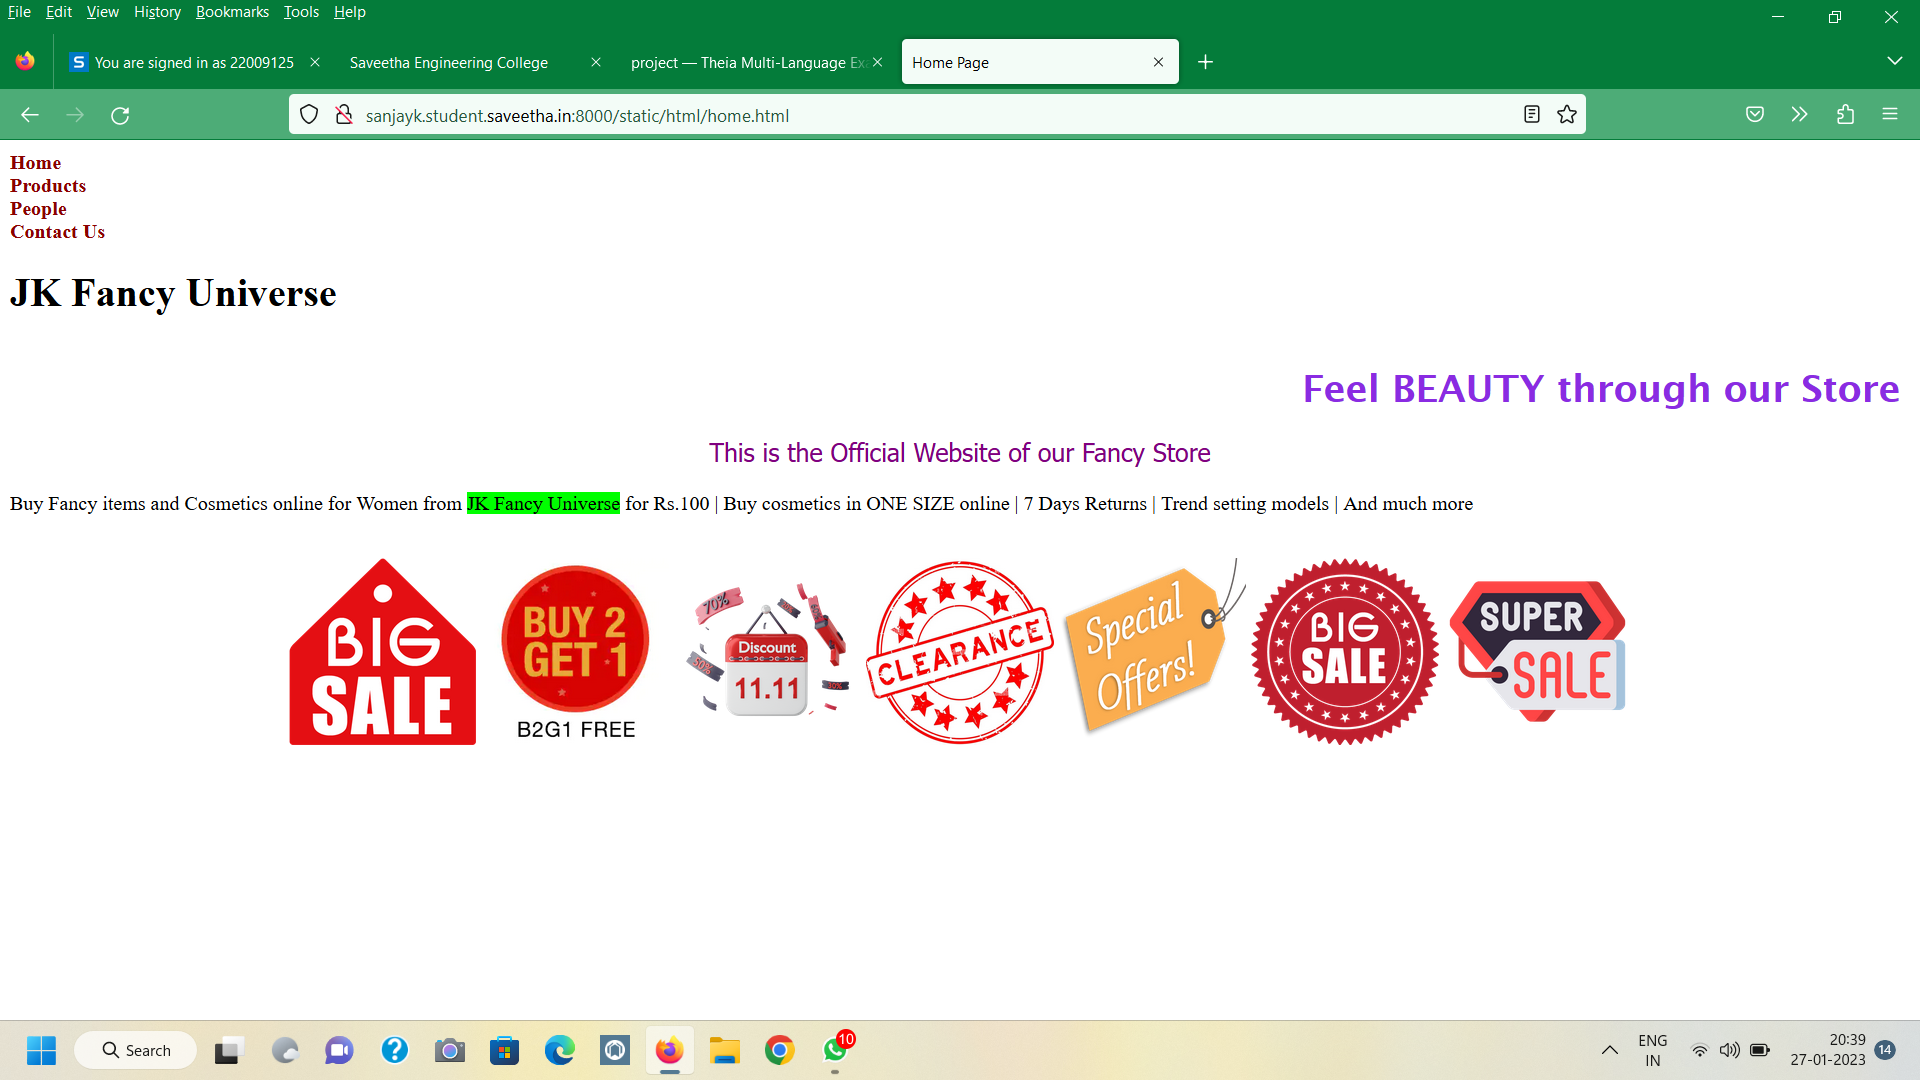
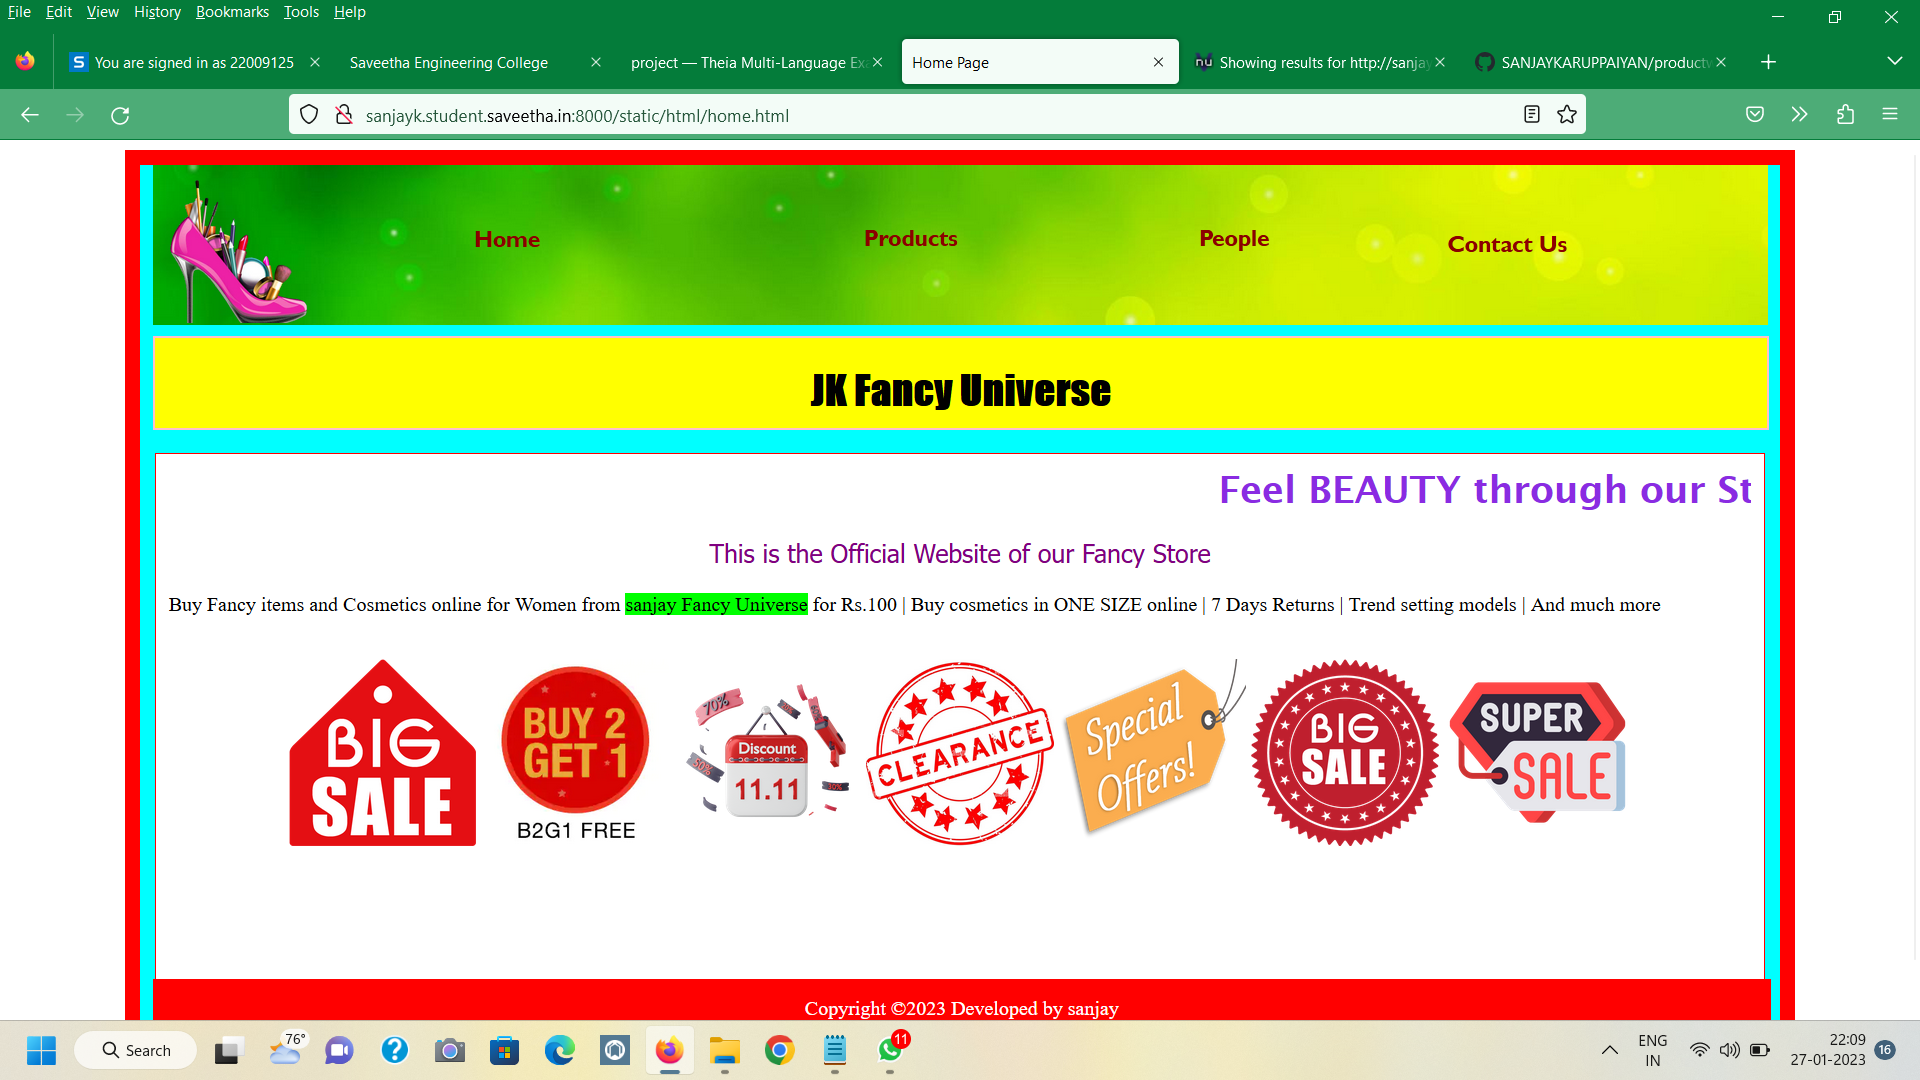
Success

diff --git a/myweb/static/html/people.html b/myweb/static/html/people.html
@@ -178,7 +178,7 @@ people.html
                     <h4><u>Chairman</u></h4>
                     </div>
                     <div class="ceoph"></div>
-                    <div class="ceo"><p align="center"><b><h2> JEYA KRISHNA SJ</h2></b></div>
+                    <div class="ceo"><p align="center"><b><h2> SANJAY K</h2></b></div>
                     <br>
                     <div class="text">
                         <p><b><u>Head executives</u></b></p><br>
@@ -190,7 +190,7 @@ people.html
                     <br>
                     <div class="text"><p><b><u>Managers</u></b></p></div><br>
                     <div class="amph1"></div>
-                    <div class="am1"><p align="center"><b><h2>SANJAY K</h2></b></p></div>
+                    <div class="am1"><p align="center"><b><h2>jeya krishna sj</h2></b></p></div>
                     <div class="amph2"></div>
                     <div class="am2"><p align="center"><b><h2>KABILAN</h2></b></p></div>
                     <div class="amph3"></div>
@@ -199,7 +199,7 @@ people.html
                 </div>
                 <div class="footer">
                 <footer style="color:white">
-                Copyright &copy;2023 Developed by JJEYA KRISHNA SJ</footer></div>
+                Copyright &copy;2023 Developed by sanjay</footer></div>
             </div>
         </div>
     </body>
@@ -254,20 +254,20 @@ contact.html
                     </div>
                     <b><h2>Contact Information:</h2></b>
                     <p><b>&emsp;&ensp;Address:</b>
-                        JK city, Thirunelveli, TamilNadu, India.
+                        sanjay city, T.palur,Ariyalur , TamilNadu, India.
                     </p>
                     <ul>
                         <li><b>Landline:</b> 12345678</li>
                         <li><b>Mobile</b>: 90 80 70 2009</li>
-                        <li><b>Facebook</b>: fb/JK fancy</li>
-                        <li><b>Email Id:</b>deeps@fancyuniv.com</li>
+                        <li><b>Facebook</b>: fb/sanjay fancy</li>
+                        <li><b>Email Id:</b>sanjay1234@fancyuniv.com</li>
                     </ul>
                     <div style="text-align: center;color:violet;font-size:20px;"><b>Use our services and Beautify Yourself!</b></div>
 
                 </div>
                 <div class="footer">
                 <footer style="color:white">
-                Copyright &copy;2023 Developed by JEYA KRISHNA SJ</footer></div>
+                Copyright &copy;2023 Developed by sanjay</footer></div>
             </div>
         </div>
     </body>

diff --git a/myweb/static/html/contact.html b/myweb/static/html/contact.html
@@ -46,20 +46,20 @@
                     </div>
                     <b><h2>Contact Information:</h2></b>
                     <p><b>&emsp;&ensp;Address:</b>
-                        Guduvancherry, Chennai, TamilNadu, India.
+                        T.palur, Ariyalur, TamilNadu, India.
                     </p>
                     <ul>
                         <li><b>Landline:</b> 12345678</li>
                         <li><b>Mobile</b>: 90 80 70 2009</li>
-                        <li><b>Facebook</b>: fb/deepsfancy</li>
-                        <li><b>Email Id:</b>deeps@fancyuniv.com</li>
+                        <li><b>Facebook</b>: fb/sanjay</li>
+                        <li><b>Email Id:</b>sanjay@fancyuniv.com</li>
                     </ul>
                     <div style="text-align: center;color:violet;font-size:20px;"><b>Use our services and Beautify Yourself!</b></div>
 
                 </div>
                 <div class="footer">
                 <footer style="color:white">
-                Copyright &copy;2023 Developed by Deepika Srinivasan</footer></div>
+                Copyright &copy;2023 Developed by sanjay</footer></div>
             </div>
         </div>
     </body>

diff --git a/myweb/static/html/home.html b/myweb/static/html/home.html
@@ -47,7 +47,7 @@
                     <marquee><b>Feel BEAUTY through our Store</b></marquee>
                     <p style="color:purple; font-family:'Tahoma'; font-size:20px;"> This is the Official Website of our Fancy Store</p>
                     </div>
-                    <p>Buy Fancy items and Cosmetics online for Women from <span style="background-color:lime">JK Fancy Universe</span>
+                    <p>Buy Fancy items and Cosmetics online for Women from <span style="background-color:lime">sanjay Fancy Universe</span>
                          for Rs.100 | Buy cosmetics in ONE SIZE online | 7 Days Returns | Trend setting models | And much more</p>
                     <br>
                 <center>
@@ -62,7 +62,7 @@
                 </div>
                 <div class="footer">
                 <footer style="color:white">
-                Copyright &copy;2023 Developed by JEYA KRISHNA SJ</footer></div>
+                Copyright &copy;2023 Developed by sanjay</footer></div>
             </div>
         </div>
     </body>

diff --git a/myweb/static/html/products.html b/myweb/static/html/products.html
@@ -197,7 +197,7 @@
 
                 <div class="footer">
                 <footer style="color:white">
-                Copyright &copy;2023 Developed by Deepika Srinivasan</footer></div>
+                Copyright &copy;2023 Developed by sanjay</footer></div>
             </div>
         </div>
     </body>
